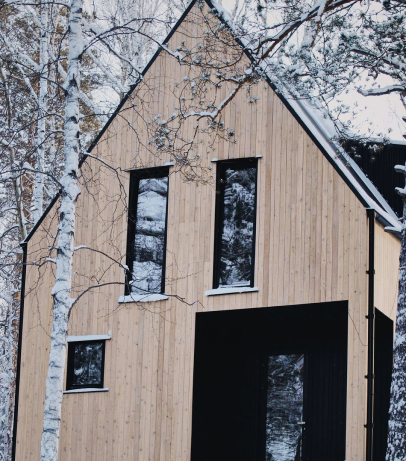
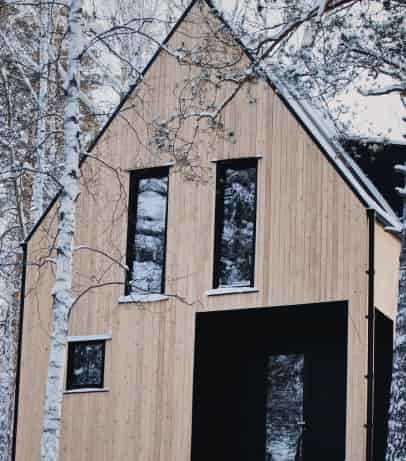
сжимал объем фотографий

diff --git a/source/index.html b/source/index.html
@@ -24,28 +24,28 @@
                 <nav class="header__nav">
                     <ul class="header__nav-list">
                         <li class="header__icon header__icon--index-nav-item">
-                            <a class="header__nav-link" href="#">
+                            <a class="header__nav-link" href="#" aria-label="ссылка на телеграмм">
                                 <svg width="20" height="17">
                                     <use xlink:href="./img/sprite.svg#icon-tg"></use>
                                 </svg>
                             </a>
                         </li>
                         <li class="header__icon header__icon--index-nav-item">
-                            <a class="header__nav-link" href="#">
+                            <a class="header__nav-link" href="#" aria-label="ссылка на whatsapp">
                                 <svg width="23" height="21">
                                     <use xlink:href="./img/sprite.svg#icon-whatsapp"></use>
                                 </svg>
                             </a>
                         </li>
                         <li class="header__icon header__icon--index-nav-item">
-                            <a class="header__nav-link" href="#">
+                            <a class="header__nav-link" href="#" aria-label="ссылка на youtube">
                                 <svg width="26" height="18">
                                     <use xlink:href="./img/sprite.svg#icon-youtube"></use>
                                 </svg>
                             </a>
                         </li>
                         <li class="header__icon header__icon--index-nav-item">
-                            <a class="header__nav-link" href="#">
+                            <a class="header__nav-link" href="#" aria-label="ссылка на vk">
                                 <svg width="25" height="15">
                                     <use xlink:href="./img/sprite.svg#icon-vk"></use>
                                 </svg>
@@ -98,6 +98,7 @@
                     <div class="section-portfolio__flex">
                         <div class="section-portfolio__wrapper">
                             <picture>
+                                <source type=”image/webp” media="(min-width: 1440px)" srcset="./img/panoramic-desktop.webp">
                                 <source media="(min-width: 1440px)" srcset="./img/panoramic-desktop.jpg">
                                 <source media="(min-width: 886px)" srcset="./img/panoramic-tablet.jpg">
                                 <img class="section-portfolio__img" width="332" height="149" src="./img/panoramic-mobile.jpg" alt="Понорамное остекление">
@@ -225,6 +226,8 @@
                     </div>
                     <div class="section-records__specialist-card">
                         <picture>
+                            <source type=”image/webp” media="(min-width: 1440px)" srcset="./img/human-desktop.webp">
+                            <source type=”image/webp” srcset="./img/human-mobile.webp">
                             <source media="(min-width: 1440px)" srcset="./img/human-desktop.jpg">
                             <source media="(min-width: 886px)" srcset="./img/human-tablet.jpg">
                             <img class="section-records__human" width="332" height="442" src="./img/human-mobile.jpg" alt="специалист">
@@ -305,28 +308,28 @@
                     <p class="footer__text">г. Иркутск, ул. 5-ой Армии, <span>дом 18, 1 этаж</span></p>
                     <ul class="footer__list">
                         <li class="footer__item">
-                            <a class="footer__link" href="#">
+                            <a class="footer__link" href="#" aria-label="ссылка на youtube">
                                 <svg width="30" height="18">
                                     <use xlink:href="./img/sprite.svg#icon-youtube"></use>
                                 </svg>
                             </a>
                         </li>
                         <li class="footer__item">
-                            <a class="footer__link" href="#">
+                            <a class="footer__link" href="#" aria-label="ссылка на vk">
                                 <svg width="28" height="16">
                                     <use xlink:href="./img/sprite.svg#icon-vk"></use>
                                 </svg> 
                             </a>
                         </li>
                         <li class="footer__item">
-                            <a class="footer__link" href="#">
+                            <a class="footer__link" href="#" aria-label="ссылка на телеграмм">
                                 <svg width="19" height="16">
                                     <use xlink:href="./img/sprite.svg#icon-tg"></use>
                                 </svg>
                             </a>
                         </li>
                         <li class="footer__item">
-                            <a class="footer__link" href="#">
+                            <a class="footer__link" href="#"  aria-label="ссылка на whatsapp">
                                 <svg width="21" height="20">
                                     <use xlink:href="./img/sprite.svg#icon-whatsapp"></use>
                                 </svg>

diff --git a/source/page.html b/source/page.html
@@ -25,28 +25,28 @@
                 <nav class="header__nav">
                     <ul class="header__nav-list">
                         <li class="header__nav-item">
-                            <a class="header__nav-link" href="#">
+                            <a class="header__nav-link" href="#" aria-label="ссылка на телеграмм">
                                 <svg width="20" height="17">
                                     <use xlink:href="./img/sprite.svg#icon-tg"></use>
                                 </svg>
                             </a>
                         </li>
                         <li class="header__nav-item">
-                            <a class="header__nav-link" href="#">
+                            <a class="header__nav-link" href="#" aria-label="ссылка на whatsapp">
                                 <svg width="23" height="21">
                                     <use xlink:href="./img/sprite.svg#icon-whatsapp"></use>
                                 </svg>
                             </a>
                         </li>
                         <li class="header__nav-item">
-                            <a class="header__nav-link" href="#">
+                            <a class="header__nav-link" href="#" aria-label="ссылка на youtube">
                                 <svg width="26" height="18">
                                     <use xlink:href="./img/sprite.svg#icon-youtube"></use>
                                 </svg>
                             </a>
                         </li>
                         <li class="header__nav-item">
-                            <a class="header__nav-link" href="#">
+                            <a class="header__nav-link" href="#" aria-label="ссылка на vk">
                                 <svg width="25" height="15">
                                     <use xlink:href="./img/sprite.svg#icon-vk"></use>
                                 </svg>
@@ -150,6 +150,8 @@
                     </div>
                     <div class="section-applications__specialist-card">
                         <picture>
+                            <source type=”image/webp” media="(min-width: 1440px)" srcset="./img/human-desktop-interior.webp">
+                            <source type=”image/webp” media="(min-width: 886px)" srcset="./img/human-tablet-interior.webp">
                             <source media="(min-width: 1440px)" srcset="./img/human-desktop-interior.jpg">
                             <source media="(min-width: 886px)" srcset="./img/human-tablet-interior.jpg">
                             <img class="section-applications__human" width="332" height="442" src="./img/human-mobile.jpg" alt="специалист">

diff --git a/source/less/components/footer.less b/source/less/components/footer.less
@@ -174,6 +174,10 @@
 @media (min-width: @tablet-width) {
     .footer {
         background-image: url('../img/footer-bg-tablet.jpg');
+        @supports (background-image: url('../img/footer-bg-tablet.webp')) {
+            background-image: url('../img/footer-bg-tablet.webp');
+        }
+
         padding-top: 132px;
     }
 
